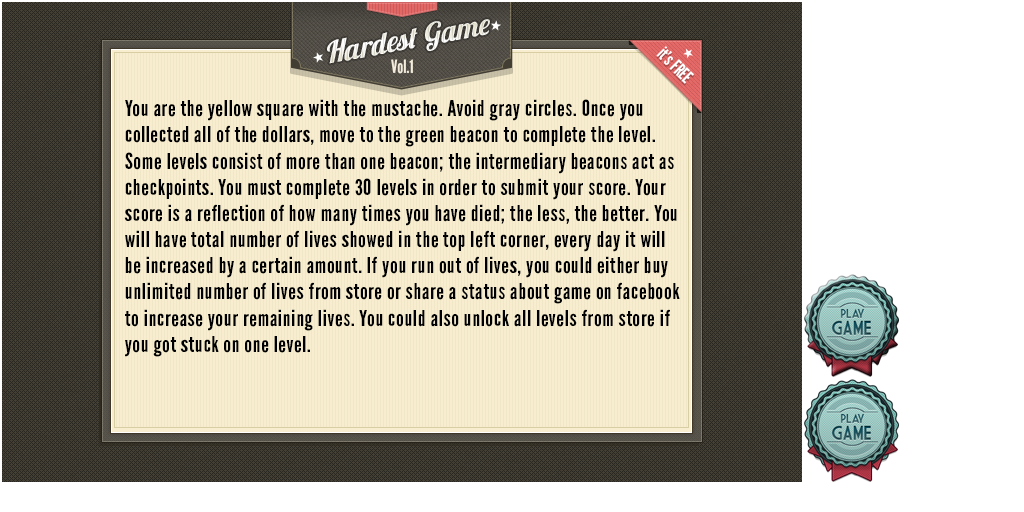
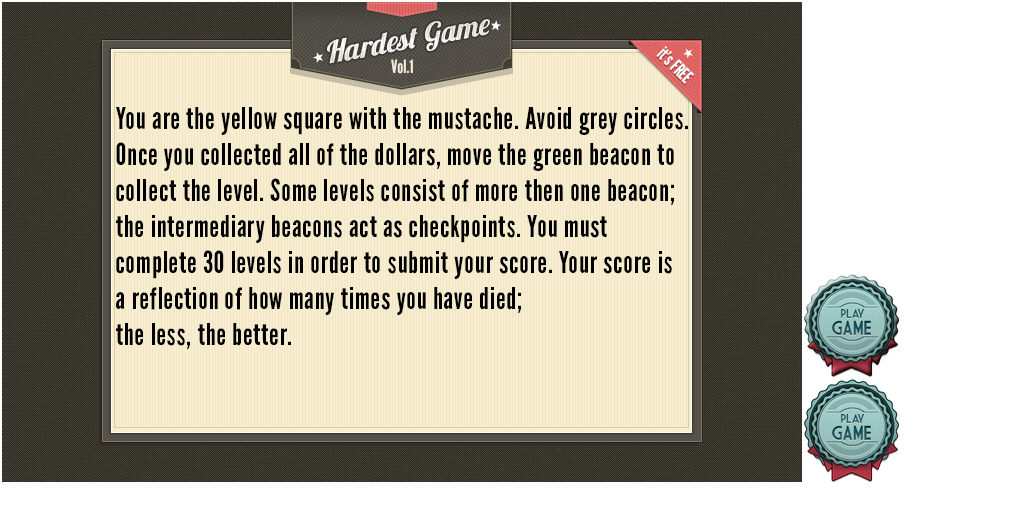
Store removed

Changed region(s): [[0.0938, 0.1875, 0.6875, 0.6875]]

diff --git a/core/src/net/ws3/hard/screens/MainMenuScreen.java b/core/src/net/ws3/hard/screens/MainMenuScreen.java
@@ -1,5 +1,6 @@
 package net.ws3.hard.screens;
 
+import net.ws3.hard.Assets;
 import net.ws3.hard.HardGame;
 import net.ws3.hard.model.UserData;
 
@@ -25,7 +26,7 @@ public class MainMenuScreen implements Screen{
 	private Skin hudSkin;
 	private Skin skin;
 	private Table table;
-	private Button playGame, leaderboard, store;
+	private Button playGame, leaderboard;
 	private Label deathCount;
 	private Button soundButton;
 	
@@ -76,15 +77,15 @@ public class MainMenuScreen implements Screen{
 			public void clicked(InputEvent event, float x, float y){
 			}
 		});
-		table.add(leaderboard).padRight(10);
+		table.add(leaderboard);
 		
-		store = new Button(skin, "store");
+		/*store = new Button(skin, "store");
 		store.addListener(new ClickListener(){
 			@Override
 			public void clicked(InputEvent event, float x, float y){
 			}
 		});
-		table.add(store);
+		table.add(store);*/
 		
 		stage.addActor(new Image(skin, "mainmenubg"));
 		stage.addActor(table);
@@ -99,6 +100,15 @@ public class MainMenuScreen implements Screen{
 		soundButton = new Button(hudSkin, "sound");
 		soundButton.setBounds(800 - 64, 480 - 64, 64, 64);
 		stage.addActor(soundButton);
+		if(!Assets.isSoundOn)
+			soundButton.setChecked(true);
+		soundButton.addListener(new ClickListener(){
+			@Override
+			public void clicked(InputEvent event, float x, float y){
+				Assets.setSoundOn(!Assets.isSoundOn);
+			}
+		});
+		
 		Gdx.input.setInputProcessor(stage);
 	}
 

diff --git a/core/src/net/ws3/hard/screens/LevelScreen.java b/core/src/net/ws3/hard/screens/LevelScreen.java
@@ -1,5 +1,6 @@
 package net.ws3.hard.screens;
 
+import net.ws3.hard.Assets;
 import net.ws3.hard.HardGame;
 import net.ws3.hard.model.UserData;
 
@@ -60,7 +61,7 @@ public class LevelScreen implements Screen{
 		table.setFillParent(true);
 		
 		for(int i = 1; i <= 30; i++){
-			if(UserData.isLevelLocked(i) && false)
+			if(UserData.isLevelLocked(i))
 				textButton = new TextButton("L", skin);
 			else{
 				textButton = new TextButton("" + i, skin);
@@ -85,6 +86,15 @@ public class LevelScreen implements Screen{
 		soundButton = new Button(hudSkin, "sound");
 		soundButton.setBounds(800 - 64, 480 - 64, 64, 64);
 		stage.addActor(soundButton);
+		if(!Assets.isSoundOn)
+			soundButton.setChecked(true);
+		soundButton.addListener(new ClickListener(){
+			@Override
+			public void clicked(InputEvent event, float x, float y){
+				Assets.setSoundOn(!Assets.isSoundOn);
+			}
+		});
+		
 		Gdx.input.setInputProcessor(stage);
 	}
 
@@ -123,9 +133,7 @@ public class LevelScreen implements Screen{
 		
 		@Override
 		public void clicked(InputEvent event, float x, float y){
-			if(UserData.getLifes() < 0)
-				game.setScreen(new NoLifeScreen(game));
-			else if(UserData.isFirstTime())
+			if(UserData.isFirstTime())
 				game.setScreen(new IntroScreen(game, level));
 			else
 				game.openLevel(level);

diff --git a/core/src/net/ws3/hard/model/UserData.java b/core/src/net/ws3/hard/model/UserData.java
@@ -1,7 +1,5 @@
 package net.ws3.hard.model;
 
-import java.util.Calendar;
-
 import com.badlogic.gdx.Gdx;
 import com.badlogic.gdx.Preferences;
 
@@ -24,9 +22,8 @@ public class UserData {
 			}
 			prefs.putBoolean("1b", false);
 			lockStatus[1] = false;
-			prefs.putInteger("lifes", 250);
-			prefs.putInteger("lastlifeupdate", Calendar.getInstance().get(Calendar.DAY_OF_WEEK));
-			lifes = 250;
+			prefs.putInteger("lifes", 0);
+			lifes = 0;
 			firstTime = true;
 		}
 		else{
@@ -35,12 +32,6 @@ public class UserData {
 				bestScores[i] = prefs.getInteger(i + "i", -1);
 				lockStatus[i] = prefs.getBoolean(i + "b", false);
 			}
-			if(prefs.getInteger("lastlifeupdate") != Calendar.getInstance().get(Calendar.DAY_OF_WEEK)){
-				lifes = prefs.getInteger("lifes") + 100;
-				prefs.putInteger("lastlifeupdate", Calendar.getInstance().get(Calendar.DAY_OF_WEEK));
-			}
-			else
-				lifes = prefs.getInteger("lifes");
 		}
 	}
 	
@@ -84,7 +75,7 @@ public class UserData {
 	}
 	
 	public static void death(){
-		lifes--;
+		lifes++;
 		prefs.putInteger("lifes", lifes);
 	}
 	

diff --git a/core/src/net/ws3/hard/controller/HardController.java b/core/src/net/ws3/hard/controller/HardController.java
@@ -20,7 +20,6 @@ public class HardController {
 	private int touchX, touchY;
 	private int draggedX, draggedY;
 	private float length;
-	private float touchPlayerX, touchPlayerY;
 	
 	public HardController(HardModel model){
 		this.model = model;
@@ -73,9 +72,6 @@ public class HardController {
 	public void setTouchDown(int x, int y){
 		touchX = x;
 		touchY = y;
-		Rectangle player = model.getPlayer();
-		touchPlayerX = player.x;
-		touchPlayerY = player.y;
 	}
 	
 	public void setTouchDragged(int x, int y){
@@ -109,8 +105,8 @@ public class HardController {
 			v.y -= 200 * delta;
 		
 		if(isTouched){
-			Rectangle player = model.getPlayer();
-			/*v.x = (touchPlayerX + draggedX - touchX - player.x) * delta * 20f;
+			/*Rectangle player = model.getPlayer();
+			v.x = (touchPlayerX + draggedX - touchX - player.x) * delta * 20f;
 			v.y = (touchPlayerY + draggedY - touchY - player.y) * delta * 20f;
 			length = (float) Math.sqrt(v.x * v.x + v.y * v.y);
 			if(length > 270 * delta){

diff --git a/core/src/net/ws3/hard/screens/GameScreen.java b/core/src/net/ws3/hard/screens/GameScreen.java
@@ -72,8 +72,6 @@ public class GameScreen implements Screen, InputProcessor{
 			if(model.collisionControl()){
 				Assets.playPunch();
 				UserData.death();
-				if(UserData.getLifes() < 0)
-					game.setScreen(new NoLifeScreen(game));
 				deathCount.setText("" + UserData.getLifes());
 				model.respawn();
 				controller.updateTouch();
@@ -149,6 +147,14 @@ public class GameScreen implements Screen, InputProcessor{
 		soundButton = new Button(hudSkin, "sound");
 		soundButton.setBounds(800 - 64, 480 - 64, 64, 64);
 		stage.addActor(soundButton);
+		if(!Assets.isSoundOn)
+			soundButton.setChecked(true);
+		soundButton.addListener(new ClickListener(){
+			@Override
+			public void clicked(InputEvent event, float x, float y){
+				Assets.setSoundOn(!Assets.isSoundOn);
+			}
+		});
 		
 		endGameTable = new Table();
 		endGameTable.setBackground(hudSkin.getDrawable("endgamebg"));

diff --git a/core/src/net/ws3/hard/screens/NoLifeScreen.java b/core/src/net/ws3/hard/screens/NoLifeScreen.java
@@ -1,5 +1,6 @@
 package net.ws3.hard.screens;
 
+import net.ws3.hard.Assets;
 import net.ws3.hard.HardGame;
 import net.ws3.hard.model.UserData;
 
@@ -83,6 +84,14 @@ public class NoLifeScreen implements Screen{
 		soundButton = new Button(hudSkin, "sound");
 		soundButton.setBounds(800 - 64, 480 - 64, 64, 64);
 		stage.addActor(soundButton);
+		if(!Assets.isSoundOn)
+			soundButton.setChecked(true);
+		soundButton.addListener(new ClickListener(){
+			@Override
+			public void clicked(InputEvent event, float x, float y){
+				Assets.setSoundOn(!Assets.isSoundOn);
+			}
+		});
 		
 		Gdx.input.setInputProcessor(stage);
 	}

diff --git a/core/src/net/ws3/hard/screens/IntroScreen.java b/core/src/net/ws3/hard/screens/IntroScreen.java
@@ -1,5 +1,6 @@
 package net.ws3.hard.screens;
 
+import net.ws3.hard.Assets;
 import net.ws3.hard.HardGame;
 import net.ws3.hard.model.UserData;
 
@@ -85,6 +86,14 @@ public class IntroScreen implements Screen{
 		soundButton = new Button(hudSkin, "sound");
 		soundButton.setBounds(800 - 64, 480 - 64, 64, 64);
 		stage.addActor(soundButton);
+		if(!Assets.isSoundOn)
+			soundButton.setChecked(true);
+		soundButton.addListener(new ClickListener(){
+			@Override
+			public void clicked(InputEvent event, float x, float y){
+				Assets.setSoundOn(!Assets.isSoundOn);
+			}
+		});
 		
 		Gdx.input.setInputProcessor(stage);
 	}

diff --git a/android/src/net/ws3/hard/android/AndroidLauncher.java b/android/src/net/ws3/hard/android/AndroidLauncher.java
@@ -16,5 +16,6 @@ public class AndroidLauncher extends AndroidApplication {
 		config.useAccelerometer = false;
 		config.useCompass = false;
 		initialize(new HardGame(), config);
+		
 	}
 }
